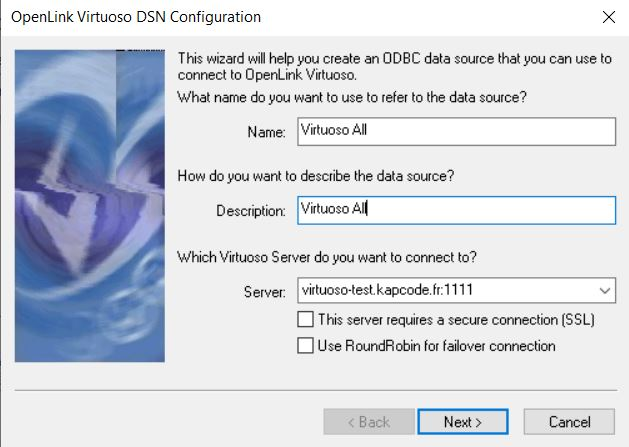
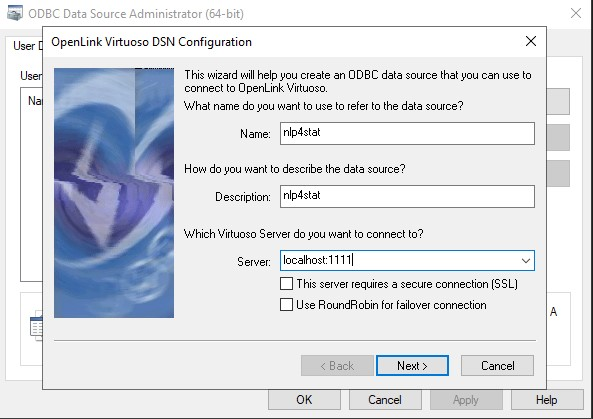
updating env setup

diff --git a/Software Environment/README.md b/Software Environment/README.md
@@ -17,7 +17,20 @@
 
 * Create the docker image using the `docker-compose up docker-compose.yml`. The [docker-compose.yml](Docker%20Images/docker-compose.yml) is in the `Docker Images` folder. 
 
+# 2. Conmect to the Virtuoso server
+In a browser go to http://localhost:8890 and on the Virtuoso frontend/GUI click on Conductor login using the username `dba` and the password defined in the [docker-compose.yml](Docker%20Images/docker-compose.yml) file (the default password is `dba`).
 
+![Virtuoso conductor](Illustrations/virtuoso_conductor_homepage.PNG)
+
+# 3. Virtuoso user parameters
+
+Go to System Admin/User accounts , to be able to launch SPARQL queries, please edit the user account for the 'dba' user as such :
+
+![Virtuoso User account edit](Illustrations/virtuoso_conductor_user_account_edit.png)
+
+![Virtuoso User account page](Illustrations/virtuoso_conductor_user_accounts.PNG)
+
+# 3. Create ODBC connection to the Virtuoso server on Windows
 
 * Open the ODBC Data Sources (64-bit) tool in control panel, go to Tab System DSN and create a new data source selecting the Virtuoso (Open Source) driver. Press Finish to start the configuration.
 
@@ -27,7 +40,7 @@
 
 <img src="Virtuoso_setup4.JPG" alt="Virtuoso setup4" width="600"/>
 
-* In the next screen, fill-in your user name and password and press Next:
+* In the next screen, fill-in your user name and password (the default is user:dba, password:dba) and press Next:
 
 <img src="Virtuoso_setup5.JPG" alt="Virtuoso setup5" width="600"/>
 
@@ -44,20 +57,9 @@
 
 
 
-# Conmect to the Virtuoso docker image
 
-In a browser go to http://localhost:8890
-and on the Virtuoso frontend/GUI click on Conductor login using the username `dba` and the password defined in the [docker-compose.yml](Docker%20Images/docker-compose.yml) file.
 
-### 3. Virtuoso user parameters
-
-![Virtuoso conductor](/Illustrations/virtuoso_conductor_homepage.PNG)
-
-Go to System Admin/User accounts , to be able to launch SPARQL queries, please edit the user account for the 'dba' user as such :
-
-![Virtuoso User account edit](/Illustrations/virtuoso_conductor_user_account_edit.png)
-
-![Virtuoso User account page](/Illustrations/virtuoso_conductor_user_accounts.PNG)
+##
 
 ### 4. Content database
 
